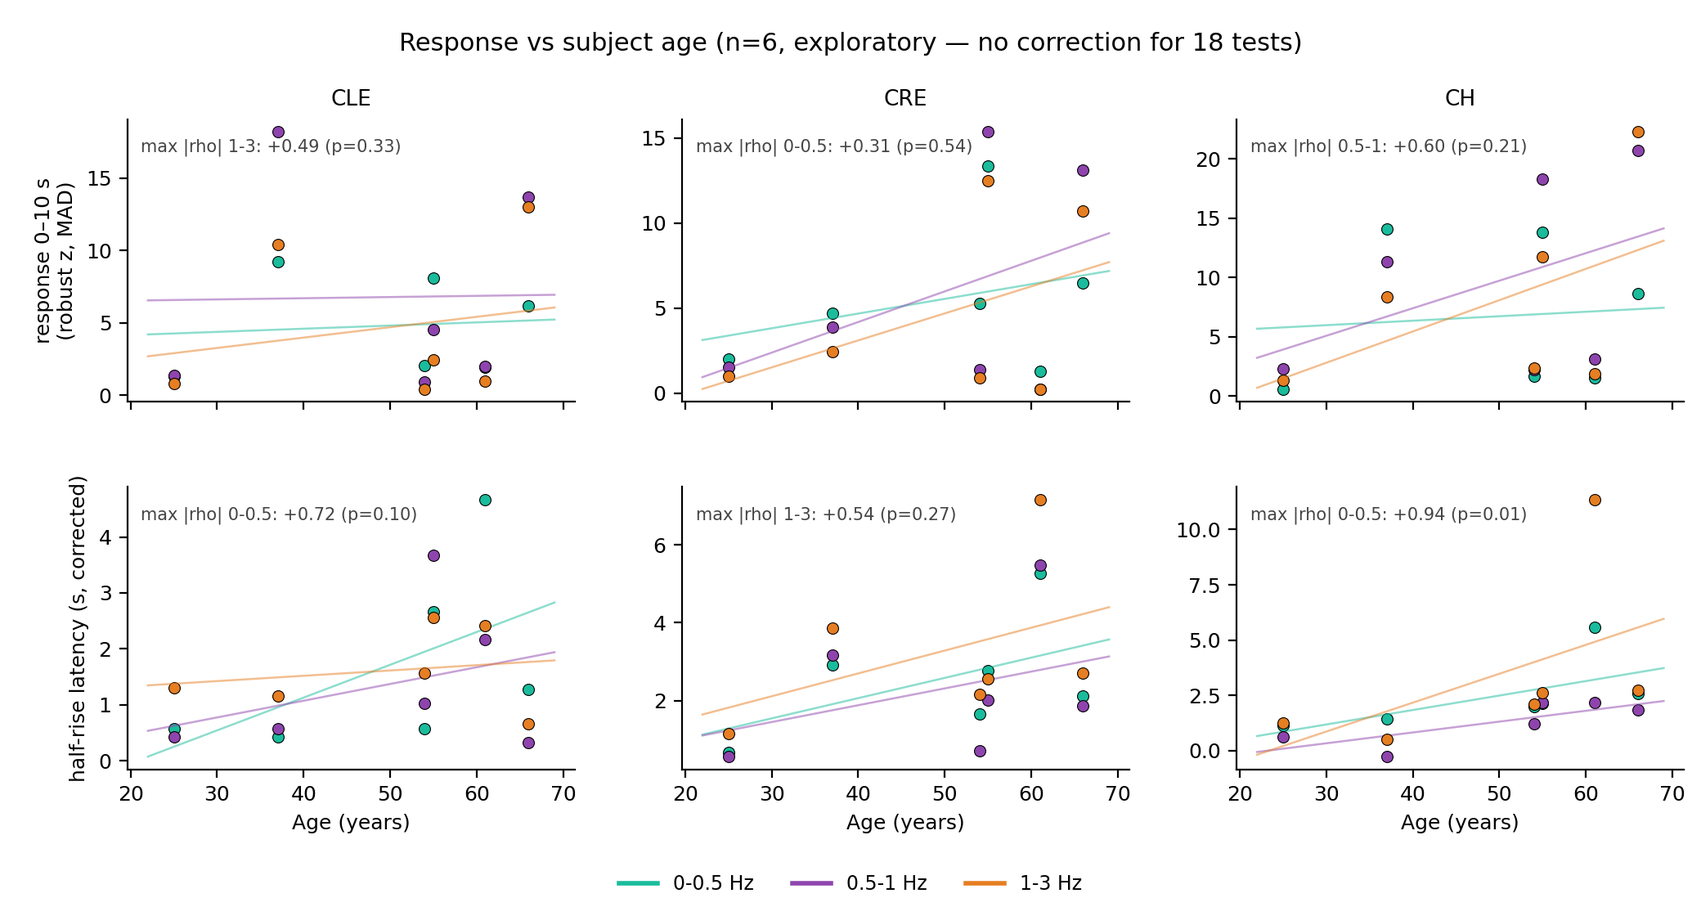
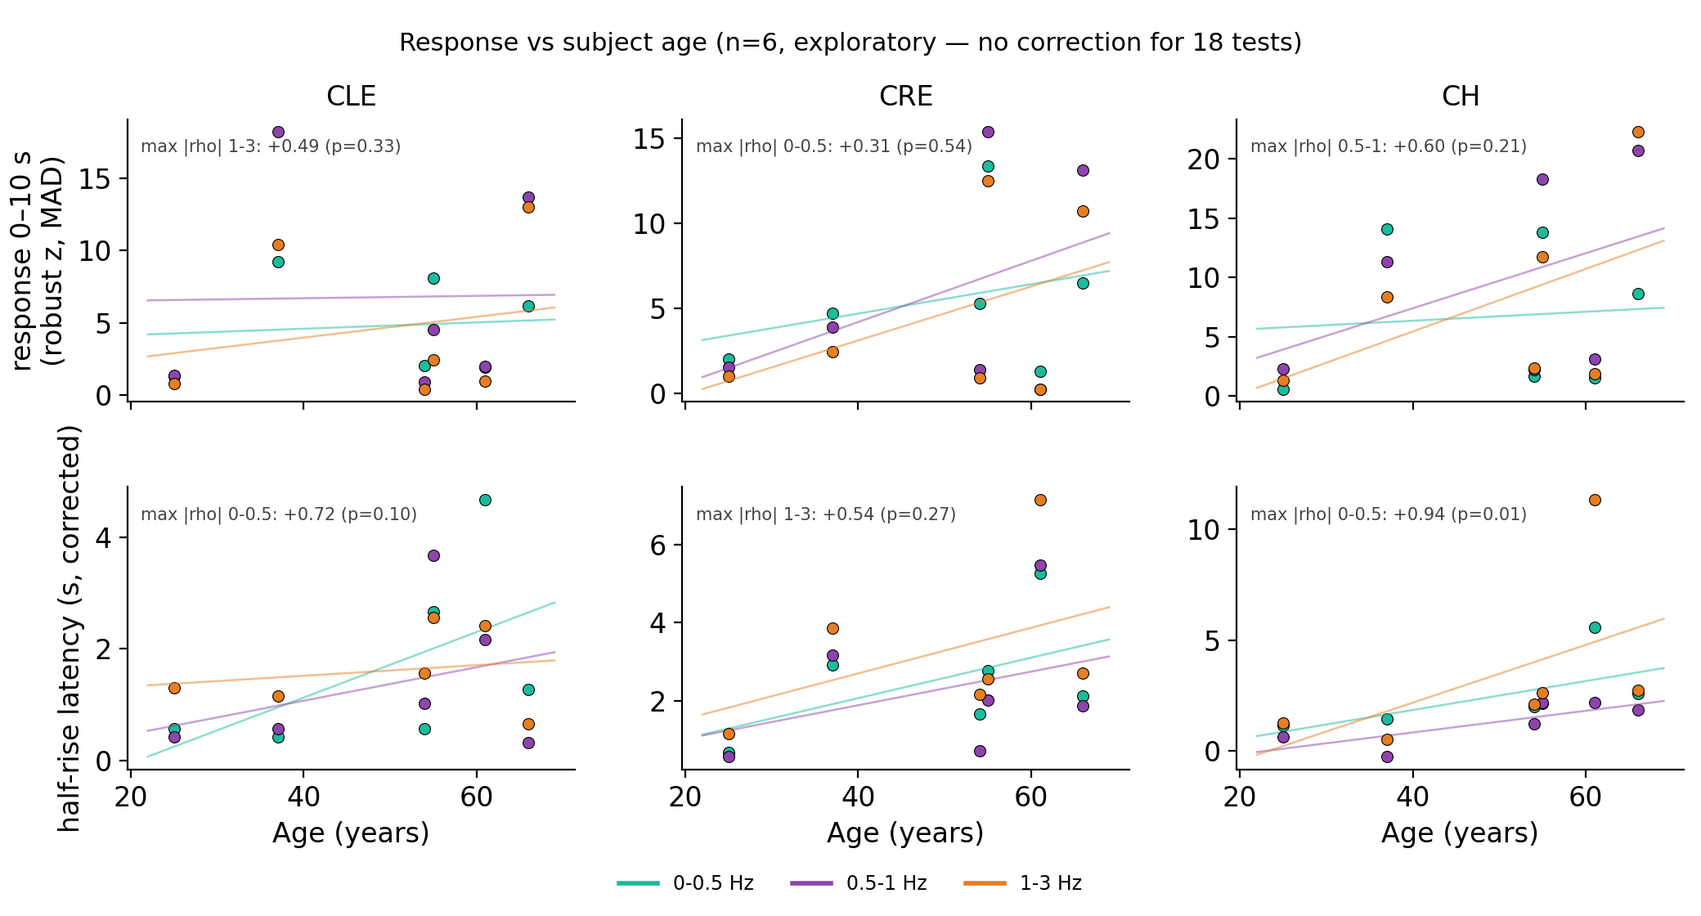
figures: redraw manuscript Fig 3/4/8/9/10 + S4 with larger fonts
Prof's Sep-2026 request. Font/figsize bumps only (no data change):
- Fig 3 in-band SNR, Fig 4 + S7/S8 rate traces, Fig 8 delta-onset cohort,
  Fig 9 harmonic ladder (S6N1), Fig 10 stage distribution
- Fig 10: added (a)/(b) panel labels
- Fig S4: removed stage-shading background per request + larger fonts

Fig 8 caption/layout mismatch (3x3 grid described, 2x3 shipped) flagged in
CHANGELOG, not fixed. Only delta_onset PNGs are git-tracked; other figure
dirs regenerate from the scripts.

diff --git a/analysis/delta_onset/delta_onset_figures.py b/analysis/delta_onset/delta_onset_figures.py
@@ -97,7 +97,7 @@ CACHE = Path(os.environ.get('TEMP', '/tmp')) / 'delta_onset_figs'
 BAND_COLORS = {'0-0.5': '#1ABC9C', '0.5-1': '#8E44AD', '1-3': '#E67E22'}
 NULL_COLOR = '#999999'
 ONSET_COLOR = '#27AE60'
-plt.rcParams.update({'font.size': 9, 'axes.linewidth': 0.8,
+plt.rcParams.update({'font.size': 12, 'axes.linewidth': 0.8,
                      'axes.spines.top': False, 'axes.spines.right': False})
 
 
@@ -402,7 +402,7 @@ def fig_cohort(sessions, tag, cal):
     tax = sessions[0]['tax']
     ns = len(subj)
 
-    fig = plt.figure(figsize=(11.0, 6.4))
+    fig = plt.figure(figsize=(13.5, 7.9))
     gs = fig.add_gridspec(2, 3, height_ratios=[0.85, 1.25], hspace=0.42, wspace=0.30,
                           left=0.07, right=0.925, top=0.90, bottom=0.09)
 
@@ -414,7 +414,7 @@ def fig_cohort(sessions, tag, cal):
     ax.fill_between(tax, m - sem, m + sem, color='#2C3E50', alpha=0.18, lw=0)
     ax.plot(tax, np.nanmean(N, 0), color=NULL_COLOR, ls='--', lw=0.8)
     ax.axvline(0, color=ONSET_COLOR, lw=1.1); ax.axhline(0, color='k', lw=0.5)
-    ax.set_xlim(tax[0], tax[-1]); ax.set_title('EEG delta (trigger)', fontsize=9.5)
+    ax.set_xlim(tax[0], tax[-1]); ax.set_title('EEG delta (trigger)', fontsize=12)
     ax.set_ylabel('z'); ax.set_xlabel('s from delta onset')
 
     # B — the same measurement with movement excluded (CH, the largest channel).
@@ -430,11 +430,11 @@ def fig_cohort(sessions, tag, cal):
     ax.axvline(0, color=ONSET_COLOR, lw=1.1); ax.axhline(0, color='k', lw=0.5)
     ax.set_xlim(tax[0], tax[-1])
     ax.set_title(f'CH — motion-free onsets only ({sum(int(s["n_onsets_clean"]) for s in sessions)}'
-                 f'/{sum(int(s["n_onsets"]) for s in sessions)})', fontsize=9.5)
+                 f'/{sum(int(s["n_onsets"]) for s in sessions)})', fontsize=12)
     ax.set_ylabel('CAP band power (z)'); ax.set_xlabel('s from delta onset')
     ax.legend(handles=[Line2D([], [], color='#555', lw=0.9, alpha=0.5, label='all onsets'),
                        Line2D([], [], color='#555', lw=1.5, label='motion-free')],
-              frameon=False, fontsize=7, loc='upper left')
+              frameon=False, fontsize=9.5, loc='upper left')
 
     # C — response amplitude. A window MEAN, not a peak: the max of a noisy per-subject
     # curve is biased upward, and the bias is largest for the subjects with fewest
@@ -461,13 +461,13 @@ def fig_cohort(sessions, tag, cal):
                 zorder=5)
     ax.set_xticks(np.arange(len(CHANNELS))); ax.set_xticklabels(CHANNELS)
     ax.axhline(0, color='k', lw=0.5)
-    ax.set_title(f'Response, {RESP_WIN[0]:.0f}–{RESP_WIN[1]:.0f} s', fontsize=9.5)
+    ax.set_title(f'Response, {RESP_WIN[0]:.0f}–{RESP_WIN[1]:.0f} s', fontsize=12)
     ax.set_ylabel('mean (z)')
     ax.legend(handles=[Line2D([], [], ls='none', marker='o', mfc='none', mec='#C0392B',
                               mew=1.3, ms=5, label='motion-free onsets'),
                        Line2D([], [], ls='none', marker='_', color=NULL_COLOR, mew=1.6,
                               ms=9, label='null')],
-              frameon=False, fontsize=7, loc='upper left')
+              frameon=False, fontsize=9.5, loc='upper left')
 
     # D-F — the response, all bands, per channel (shared y so channel rank is readable),
     # with the motion profile shaded behind each panel so the two are read together
@@ -485,7 +485,7 @@ def fig_cohort(sessions, tag, cal):
             lim = max(lim, np.nanmax(cur[bn] + sem[bn]), np.nanmax(nul[bn]))
         motion_backdrop(axes[j], tax, mo, np.nanmax(mo), label=(j == len(CHANNELS) - 1))
         band_panel(axes[j], tax, cur, nul, sem)
-        axes[j].set_title(ch, fontsize=9.5)
+        axes[j].set_title(ch, fontsize=12)
         axes[j].set_xlabel('s from delta onset')
     axes[0].set_ylabel('CAP band power (z)')
     for a in axes:
@@ -495,8 +495,8 @@ def fig_cohort(sessions, tag, cal):
 
     fig.suptitle(f'CAP band power at EEG delta-burst onset  (n={ns} subjects, '
                  f'{sum(s["n_onsets"] for s in sessions)} onsets, causal envelope)',
-                 fontsize=11, y=0.975)
-    band_legend(fig, loc='lower center', ncol=4, bbox_to_anchor=(0.5, -0.004), fontsize=8.5)
+                 fontsize=13.5, y=0.975)
+    band_legend(fig, loc='lower center', ncol=4, bbox_to_anchor=(0.5, -0.004), fontsize=10.5)
     p = OUT_FIG / 'fig_delta_onset_cohort.png'
     fig.savefig(p, dpi=200); plt.close(fig)
     print(f'  saved {p.name}')
@@ -522,7 +522,7 @@ def fig_motion(sessions, tag):
     _, M = per_subject(keep, 'motion_nullc')
     ax.plot(tax, np.nanmean(M, 0) * 100, color=NULL_COLOR, ls='--', lw=0.8)
     ax.axvline(0, color=ONSET_COLOR, lw=1.1); ax.set_ylim(bottom=0)
-    ax.set_xlim(tax[0], tax[-1]); ax.set_title('Head motion', fontsize=9.5)
+    ax.set_xlim(tax[0], tax[-1]); ax.set_title('Head motion', fontsize=12)
     ax.set_ylabel('% samples flagged'); ax.set_xlabel('s from delta onset')
     ax.legend(frameon=False, fontsize=7.5, loc='upper left')
 
@@ -539,7 +539,7 @@ def fig_motion(sessions, tag):
             lim = max(lim, np.nanmax(np.nanmean(R, 0)), np.nanmax(np.nanmean(C, 0)))
         ax.axvline(0, color=ONSET_COLOR, lw=1.1); ax.axhline(0, color='k', lw=0.5)
         ax.set_xlim(tax[0], tax[-1])
-        ax.set_title(ch, fontsize=9.5); ax.set_xlabel('s from delta onset')
+        ax.set_title(ch, fontsize=12); ax.set_xlabel('s from delta onset')
     axes[1].set_ylabel('CAP band power (z)')
     for a in axes[1:]:
         a.set_ylim(-0.45, lim * 1.12)
@@ -568,7 +568,7 @@ def fig_session(sessions, tag):
     ax.plot(tax, s['eeg_real'], color='#2C3E50', lw=1.5)
     ax.plot(tax, s['eeg_nullm'], color=NULL_COLOR, ls='--', lw=0.8)
     ax.axvline(0, color=ONSET_COLOR, lw=1.1); ax.axhline(0, color='k', lw=0.5)
-    ax.set_xlim(tax[0], tax[-1]); ax.set_title('EEG delta (trigger)', fontsize=9.5)
+    ax.set_xlim(tax[0], tax[-1]); ax.set_title('EEG delta (trigger)', fontsize=12)
     ax.set_ylabel('z'); ax.set_xlabel('s from delta onset')
 
     lim = 0
@@ -580,7 +580,7 @@ def fig_session(sessions, tag):
         band_panel(axes[j + 1], tax, cur, nul)
         lim = max(lim, max(np.nanmax(v) for v in cur.values()),
                   max(np.nanmax(v) for v in nul.values()))
-        axes[j + 1].set_title(ch, fontsize=9.5); axes[j + 1].set_xlabel('s from delta onset')
+        axes[j + 1].set_title(ch, fontsize=12); axes[j + 1].set_xlabel('s from delta onset')
     axes[1].set_ylabel('CAP band power (z)')
     for a in axes[1:]:
         a.set_ylim(-0.45, lim * 1.12)
@@ -659,7 +659,7 @@ def fig_age(sessions, tag, cal):
                 rows.append({'tag': tag, 'channel': ch, 'band_hz': bn, 'metric': metric,
                              'spearman_rho': round(float(rho), 3), 'p_value': round(float(p), 3),
                              'n_subj': len(subj)})
-        axes[0, j].set_title(ch, fontsize=9.5)
+        axes[0, j].set_title(ch, fontsize=12)
         axes[1, j].set_xlabel('Age (years)')
     axes[0, 0].set_ylabel(f'response {RESP_WIN[0]:.0f}–{RESP_WIN[1]:.0f} s\n(robust z, MAD)')
     axes[1, 0].set_ylabel('half-rise latency (s, corrected)')

diff --git a/analysis/rates/rerun_session_plots.py b/analysis/rates/rerun_session_plots.py
@@ -68,8 +68,8 @@ LEGEND_ORDER = ['PSG reference', 'spectral, 4 s Welch (published)',
 plt.rcParams.update({
     'font.family': 'sans-serif',
     'font.sans-serif': ['Arial', 'Helvetica', 'DejaVu Sans'],
-    'font.size': 7, 'axes.titlesize': 7.5, 'axes.labelsize': 7,
-    'xtick.labelsize': 6.5, 'ytick.labelsize': 6.5, 'legend.fontsize': 7,
+    'font.size': 11, 'axes.titlesize': 11.5, 'axes.labelsize': 11,
+    'xtick.labelsize': 10, 'ytick.labelsize': 10, 'legend.fontsize': 10,
     'axes.linewidth': 0.6, 'xtick.major.width': 0.6, 'ytick.major.width': 0.6,
     'xtick.major.size': 2.5, 'ytick.major.size': 2.5,
     'axes.spines.top': False, 'axes.spines.right': False,
@@ -90,7 +90,7 @@ def fit_k(raw, gt):
 def plot_band(df: pd.DataFrame, band: str) -> None:
     g0 = df[(df.band == band) & (df.channel == CHANNEL)].dropna(subset=['gt_hz'])
     sessions = sorted(g0.session.unique())
-    fig, axes = plt.subplots(4, 3, figsize=(183 * MM, 168 * MM), sharey=True)
+    fig, axes = plt.subplots(4, 3, figsize=(215 * MM, 200 * MM), sharey=True)
 
     for ax, sess in zip(axes.ravel(), sessions):
         g = g0[g0.session == sess].sort_values('epoch')
@@ -107,11 +107,11 @@ def plot_band(df: pd.DataFrame, band: str) -> None:
             ax.plot(t[m], raw[m] / k, ls=ls, color=colour, lw=lw, alpha=alpha,
                     zorder=z, label=label, solid_capstyle='butt')
 
-        ax.set_title(sess, color=C_INK, pad=3, loc='left', fontsize=7.5)
+        ax.set_title(sess, color=C_INK, pad=3, loc='left', fontsize=11.5)
         ax.set_ylim(*YLIM[band])
         ax.set_xlim(0, max(t.max(), 1))
         ax.text(0.985, 0.04, f'ref SD {np.std(gt):.2f}', transform=ax.transAxes,
-                ha='right', va='bottom', fontsize=6, color=C_MUTED, zorder=8,
+                ha='right', va='bottom', fontsize=9, color=C_MUTED, zorder=8,
                 bbox=dict(fc='white', ec='none', alpha=0.8, pad=1.2))
         ax.grid(axis='y', color=C_FAINT, lw=0.4, zorder=0)
         ax.set_axisbelow(True)
@@ -128,11 +128,11 @@ def plot_band(df: pd.DataFrame, band: str) -> None:
                bbox_to_anchor=(0.5, -0.035), handlelength=1.6, columnspacing=1.6)
     fig.suptitle(f'{BAND_NAME[band]} rate across the whole night, all twelve '
                  f'recordings ({CHANNEL} channel, each estimator k-scaled to its own night)',
-                 fontsize=8.5, y=1.002)
+                 fontsize=12.5, y=1.002)
     fig.text(0.5, -0.055,
              'Every estimator is divided by a scale factor fitted on the same night, '
              'which is the most favourable case. SD is of the plotted trace.',
-             ha='center', fontsize=6.5, color=C_MUTED)
+             ha='center', fontsize=9.5, color=C_MUTED)
     fig.tight_layout(w_pad=1.6, h_pad=1.9)
     out = FIG / f'fig_sessions_{band}.png'
     fig.savefig(out)
@@ -157,7 +157,7 @@ def plot_representative(df: pd.DataFrame, session: str = 'S1N1') -> None:
 
     The twelve-panel versions carry the cohort; this carries the reader.
     """
-    fig, axes = plt.subplots(2, 1, figsize=(183 * MM, 88 * MM), sharex=True)
+    fig, axes = plt.subplots(2, 1, figsize=(205 * MM, 108 * MM), sharex=True)
     for ax, band in zip(axes, ['resp', 'card']):
         g = (df[(df.band == band) & (df.channel == CHANNEL) & (df.session == session)]
              .dropna(subset=['gt_hz']).sort_values('epoch'))
@@ -175,14 +175,14 @@ def plot_representative(df: pd.DataFrame, session: str = 'S1N1') -> None:
         ax.set_axisbelow(True)
         err = np.median(np.abs(raw[m] / k - gt[m]))
         ax.text(0.995, 0.94, f'k = {k:.2f}   median |error| {err:.2f} {UNIT[band]}',
-                transform=ax.transAxes, ha='right', va='top', fontsize=6.5,
+                transform=ax.transAxes, ha='right', va='top', fontsize=9.5,
                 color=C_MUTED)
         ax.text(-0.075, 1.02, 'AB'['resp card'.split().index(band)], transform=ax.transAxes,
-                fontsize=9, fontweight='bold', va='bottom', color=C_INK)
+                fontsize=13, fontweight='bold', va='bottom', color=C_INK)
     axes[1].set_xlabel('time (h)')
     axes[0].legend(loc='lower left', ncol=2, handlelength=1.6, borderpad=0.2)
     fig.suptitle(f'Respiratory and cardiac rate across one night ({session})',
-                 fontsize=8.5, y=0.995)
+                 fontsize=12.5, y=0.995)
     fig.tight_layout(h_pad=1.4)
     out = FIG / 'fig_representative_night.png'
     fig.savefig(out)

diff --git a/analysis/mean_value/ch_vs_clecre_sessions.py b/analysis/mean_value/ch_vs_clecre_sessions.py
@@ -124,43 +124,42 @@ def fig_grid(traces, sessions, out):
     for ax, lbl in zip(axes.ravel(), sessions):
         tr = traces[lbl]
         t, codes = tr['t'], tr['codes']
-        for j in range(len(t) - 1):
-            ax.axvspan(t[j], t[j + 1], color=STAGE_COLORS.get(int(codes[j]), '#AAA'),
-                       alpha=0.13, lw=0)
+        # Stage background shading removed for clarity (prof request 2026-09): the
+        # coloured hypnogram bands crowded the traces. Stage context lives in the
+        # companion hypnogram figures instead.
         # Each channel on its own axis: they differ in scale by up to ~9x, so a
         # shared axis would hide the shape of whichever one is smaller.
         lim_c = CLIP_SD * max(tr['sd_ch'], 1e-6)
-        ax.plot(t, np.clip(tr['ch'], -lim_c, lim_c), lw=1.1, color=CH_COLOR, zorder=3)
+        ax.plot(t, np.clip(tr['ch'], -lim_c, lim_c), lw=1.3, color=CH_COLOR, zorder=3)
         ax.axhline(0, color='#2C3E50', ls='--', lw=0.8, zorder=2)
         ax.set_ylim(-lim_c * 1.1, lim_c * 1.1)
-        ax.set_ylabel(f'CH − mean ({CAP_UNIT})', fontsize=8, color=CH_COLOR)
-        ax.tick_params(axis='y', labelcolor=CH_COLOR, labelsize=7)
+        ax.set_ylabel(f'CH − mean ({CAP_UNIT})', fontsize=12, color=CH_COLOR)
+        ax.tick_params(axis='y', labelcolor=CH_COLOR, labelsize=11)
+        ax.tick_params(axis='x', labelsize=11)
 
         ax2 = ax.twinx()
         lim_d = CLIP_SD * max(tr['sd_di'], 1e-6)
-        ax2.plot(t, np.clip(tr['diff'], -lim_d, lim_d), lw=1.1, color=DIFF_COLOR,
+        ax2.plot(t, np.clip(tr['diff'], -lim_d, lim_d), lw=1.3, color=DIFF_COLOR,
                  zorder=4)
         ax2.set_ylim(-lim_d * 1.1, lim_d * 1.1)
-        ax2.set_ylabel(f'CLE−CRE − mean ({CAP_UNIT})', fontsize=8, color=DIFF_COLOR)
-        ax2.tick_params(axis='y', labelcolor=DIFF_COLOR, labelsize=7)
+        ax2.set_ylabel(f'CLE−CRE − mean ({CAP_UNIT})', fontsize=12, color=DIFF_COLOR)
+        ax2.tick_params(axis='y', labelcolor=DIFF_COLOR, labelsize=11)
 
         ax.set_title(f'{lbl}    CH mean {tr["mu_ch"]:,.0f}   '
                      f'CLE−CRE mean {tr["mu_di"]:,.0f} {CAP_UNIT}',
-                     fontsize=10, fontweight='bold')
+                     fontsize=13, fontweight='bold')
         ax.grid(True, alpha=0.12)
     for ax in axes[-1]:
-        ax.set_xlabel('Time (hours)', fontsize=9)
+        ax.set_xlabel('Time (hours)', fontsize=12)
     handles = [plt.Line2D([], [], color=CH_COLOR, lw=2.5, label='CH (hardware), left axis'),
                plt.Line2D([], [], color=DIFF_COLOR, lw=2.5,
                           label='CLE−CRE (arithmetic), right axis')]
-    handles += [mpatches.Patch(color=STAGE_COLORS[k], label=STAGE_LABELS[k])
-                for k in STAGE_ORDER]
-    fig.legend(handles=handles, loc='upper center', ncol=7, fontsize=10,
+    fig.legend(handles=handles, loc='upper center', ncol=2, fontsize=13,
                framealpha=0.9, bbox_to_anchor=(0.5, 1.004))
     fig.suptitle('CH and CLE−CRE over the night, each referenced to its own session '
                  f'mean — all 12 sessions.  Independent axes (the two differ in scale '
                  f'by up to 9x); traces clipped at ±{CLIP_SD:.0f} sd.',
-                 fontsize=14.5, fontweight='bold', y=1.019)
+                 fontsize=17, fontweight='bold', y=1.019)
     fig.tight_layout()
     fig.savefig(out, dpi=140, bbox_inches='tight'); plt.close(fig)
 

diff --git a/analysis/slow_wave/harmonic_ladder_overlay.py b/analysis/slow_wave/harmonic_ladder_overlay.py
@@ -107,9 +107,9 @@ def draw_stage_ladder(ax, sp):
     """Hypnogram as a connected stepped LADDER (staircase), not colour-coded
     dashes.  Top->bottom = Wake, N1, N2, N3, REM."""
     ax.set_yticks([0, 1, 2, 3, 4])
-    ax.set_yticklabels(['REM', 'N3', 'N2', 'N1', 'Wake'], fontsize=7)
+    ax.set_yticklabels(['REM', 'N3', 'N2', 'N1', 'Wake'], fontsize=12)
     ax.set_ylim(-0.5, 4.5)
-    ax.set_ylabel('Stage', fontsize=9)
+    ax.set_ylabel('Stage', fontsize=14)
     if sp is None:
         return
     t = np.asarray(sp['t_ep_hr'], float)
@@ -294,10 +294,11 @@ def detect_channel(session, ch):
 
 def overlay(session):
     sp = session.sleep_profile
-    fig, axes = plt.subplots(len(CHANNELS) + 1, 1, figsize=(16, 11),
+    fig, axes = plt.subplots(len(CHANNELS) + 1, 1, figsize=(17, 12),
                              gridspec_kw={'height_ratios': [0.4] + [1.0] * len(CHANNELS)},
                              sharex=True)
     draw_stage_ladder(axes[0], sp)
+    axes[0].tick_params(labelsize=12)
     rows = []
     summary = []
     for ax, ch in zip(axes[1:], CHANNELS):
@@ -310,7 +311,8 @@ def overlay(session):
             for fr, s0, s1 in ep['bands']:
                 ax.plot([t_hr[s0], t_hr[s1]], [fr, fr], color='#00E5FF', lw=2.0, alpha=0.95)
         ax.set_ylim(0, FMAX)
-        ax.set_ylabel(f'{ch}\nFreq (Hz)', fontsize=9)
+        ax.set_ylabel(f'{ch}\nFreq (Hz)', fontsize=13)
+        ax.tick_params(labelsize=12)
         active_min = active.sum() * STEP_SEC / 60
         if episodes:
             longest = max(ep['hi'] - ep['lo'] for ep in episodes)
@@ -329,9 +331,9 @@ def overlay(session):
                              longest_min=round(longest_min, 1), dominant_stage=dom))
         else:
             summary.append(f'{ch}: none')
-    axes[-1].set_xlabel('Time (hr)', fontsize=10)
+    axes[-1].set_xlabel('Time (hr)', fontsize=14)
     axes[0].set_title(f'{session.label} — flat harmonic ladders  |  ' + '   '.join(summary),
-                      fontsize=11)
+                      fontsize=14)
     out = FIG_DIR / f'ladder_{session.label}.png'
     fig.savefig(out, dpi=150, bbox_inches='tight', facecolor='white')
     plt.close(fig)

diff --git a/analysis/slow_wave/ladder_stage_relationship.py b/analysis/slow_wave/ladder_stage_relationship.py
@@ -170,25 +170,33 @@ def main():
 
     # ── figure: onset-aligned stage occupancy ──
     P = {s: occ[s] / max(n_ev, 1) for s in STAGE_ORDER}
-    fig, axes = plt.subplots(1, 2, figsize=(15, 5.5))
+    fig, axes = plt.subplots(1, 2, figsize=(16, 6.2))
     ax = axes[0]
     for st in STAGE_ORDER:
         ax.plot(TAUS, P[st], color=STAGE_COLORS[st], lw=2, label=STAGE_LABELS[st])
     ax.axvline(0, color='k', lw=1, ls='--')
-    ax.set_xlabel('minutes relative to event onset')
-    ax.set_ylabel('P(stage)')
-    ax.set_title(f'Stage occupancy around ladder-event onset (n={n_ev} events)')
-    ax.legend(fontsize=8)
+    ax.set_xlabel('minutes relative to event onset', fontsize=14)
+    ax.set_ylabel('P(stage)', fontsize=14)
+    ax.set_title(f'Stage occupancy around ladder-event onset (n={n_ev} events)',
+                 fontsize=15, fontweight='bold')
+    ax.tick_params(labelsize=12)
+    ax.legend(fontsize=12)
     ax.grid(alpha=0.15)
+    ax.text(-0.10, 1.03, '(a)', transform=ax.transAxes, fontsize=18,
+            fontweight='bold', va='bottom', ha='left')
 
     ax = axes[1]
     remc = STAGE_COLORS[REM]
     ax.plot(TAUS, P[REM], color=remc, lw=2.5, label='P(REM) around onset')
     ax.axvline(0, color='k', lw=1, ls='--')
-    ax.set_xlabel('minutes relative to event onset')
-    ax.set_ylabel('P(REM)')
-    ax.set_title('REM occupancy vs event onset (left=before, right=during/after)')
+    ax.set_xlabel('minutes relative to event onset', fontsize=14)
+    ax.set_ylabel('P(REM)', fontsize=14)
+    ax.set_title('REM occupancy vs event onset (left=before, right=during/after)',
+                 fontsize=15, fontweight='bold')
+    ax.tick_params(labelsize=12)
     ax.grid(alpha=0.15)
+    ax.text(-0.10, 1.03, '(b)', transform=ax.transAxes, fontsize=18,
+            fontweight='bold', va='bottom', ha='left')
     fig.tight_layout()
     fig.savefig(FIG_DIR / 'ladder_stage_relationship.png', dpi=150, facecolor='white')
     plt.close(fig)

diff --git a/writeup/figures/signal_validation/inband_snr.py b/writeup/figures/signal_validation/inband_snr.py
@@ -100,7 +100,7 @@ print(summary.to_string(index=False))
 print('\nchannel means (dB):', {ch: round(v, 1) for ch, v in means.items()})
 
 # ── Figure: grouped bars, one group per session, 3 channels ──────────────────
-fig, ax = plt.subplots(figsize=(12.5, 5.8))
+fig, ax = plt.subplots(figsize=(14.5, 7.2))
 x = np.arange(len(labels))
 w = 0.26
 for i, ch in enumerate(CHANNELS):
@@ -111,13 +111,14 @@ for i, ch in enumerate(CHANNELS):
 
 ax.axhline(0, color='gray', lw=1.0, zorder=2)
 ax.set_xticks(x)
-ax.set_xticklabels(labels, rotation=45, ha='right', fontsize=9)
-ax.set_ylabel('Physiological-band SNR (dB, per-Hz density)', fontsize=11)
-ax.set_xlabel('Session', fontsize=11)
+ax.set_xticklabels(labels, rotation=45, ha='right', fontsize=13)
+ax.set_ylabel('Physiological-band SNR (dB, per-Hz density)', fontsize=15)
+ax.set_xlabel('Session', fontsize=15)
+ax.tick_params(axis='y', labelsize=13)
 ax.set_title('Respiratory + cardiac band SNR per session, per raw channel',
-             fontsize=13, fontweight='bold')
+             fontsize=17, fontweight='bold')
 ax.grid(True, axis='y', alpha=0.25, zorder=0)
-ax.legend(loc='upper right', fontsize=9.5, frameon=True, framealpha=0.95, ncol=3)
+ax.legend(loc='upper right', fontsize=13, frameon=True, framealpha=0.95, ncol=3)
 ax.margins(y=0.14)
 
 # The SNR definition lives in the figure caption, not on the axes: repeating it

diff --git a/CHANGELOG.md b/CHANGELOG.md
@@ -6,6 +6,13 @@ Records all code changes to library modules, scripts, and notebooks.
 
 ## 2026-09-11
 
+- **Redrew six manuscript figures with larger fonts** (prof request, Sep-2026 round) — font/figsize bumps only, no data or layout change except where noted:
+  - **Fig 3** `writeup/figures/signal_validation/inband_snr.py` — figsize 12.5×5.8→14.5×7.2; ticks 9→13, labels 11→15, title 13→17, legend 9.5→13.
+  - **Fig 4 + S7/S8** `analysis/rates/rerun_session_plots.py` — shared rcParams 7/7.5/6.5→11/11.5/10; representative-night figsize 183×88→205×108 mm and 12-panel 183×168→215×200 mm; panel letters 9→13, in-panel text 6.5→9.5, suptitle 8.5→12.5.
+  - **Fig 8** `analysis/delta_onset/delta_onset_figures.py` — rcParams font 9→12, figsize 11×6.4→13.5×7.9, titles 9.5→12, suptitle 11→13.5, legends 7/8.5→9.5/10.5 (regenerates the whole delta_onset set). **Note for the author:** the manuscript Fig 8 caption describes a bands-rows × channels-cols 3×3 grid, but the shipped `fig_delta_onset_cohort.png` is a 2×3 A–F layout — caption and figure disagree (pre-existing; not fixed here).
+  - **Fig 9** `analysis/slow_wave/harmonic_ladder_overlay.py` — figsize 16×11→17×12; stage/freq labels 7–10→11–14, tick labels →12, title 11→14 (run `--session S6N1`).
+  - **Fig 10** `analysis/slow_wave/ladder_stage_relationship.py` — figsize 15×5.5→16×6.2; titles/labels →14–15, ticks →12, legend 8→12; **added (a)/(b) panel labels**.
+  - **Fig S4** `analysis/mean_value/ch_vs_clecre_sessions.py` — **removed the stage-shading background** (prof: "remove the background color"); fonts 7–14.5→11–17; dropped the now-meaningless stage-color legend patches.
 - **Added** `analysis/prof_requests_sep2026/` — four scripts answering the professor's Sep 7–9 manuscript emails, with `FINDINGS.md` summary. Plots → `notebooks/plots/prof_requests_sep2026/`, tables → `reports/prof_requests_sep2026/`. Descriptive/per-subject, no headline p-values.
   - `mean_cap_vs_rem.py` — slow (sleep-cycle) mean of CH/CLE/CRE/CLE-CRE vs REM: 12-panel overlay (REM shaded), REM-onset-triggered average, REM−NREM direction per night, and slow-mean × REM-occupancy-cycle correlation. Reuses the mean-value/VLF idiom from `analysis/mean_value/mean_value_vs_stage.py`.
   - `band_power_comparison.py` — per-epoch Welch band power (fF²) for respiratory/cardiac/SWS(N3) bands + harmonic-comb vs non-comb in-band power, per channel; median-PSD figure with bands shaded. Comb epochs joined from `reports/slow_wave/ladder_quantify/per_window_channels.parquet`. Writes `reports/prof_requests_sep2026/band_power_epochs.parquet`.
